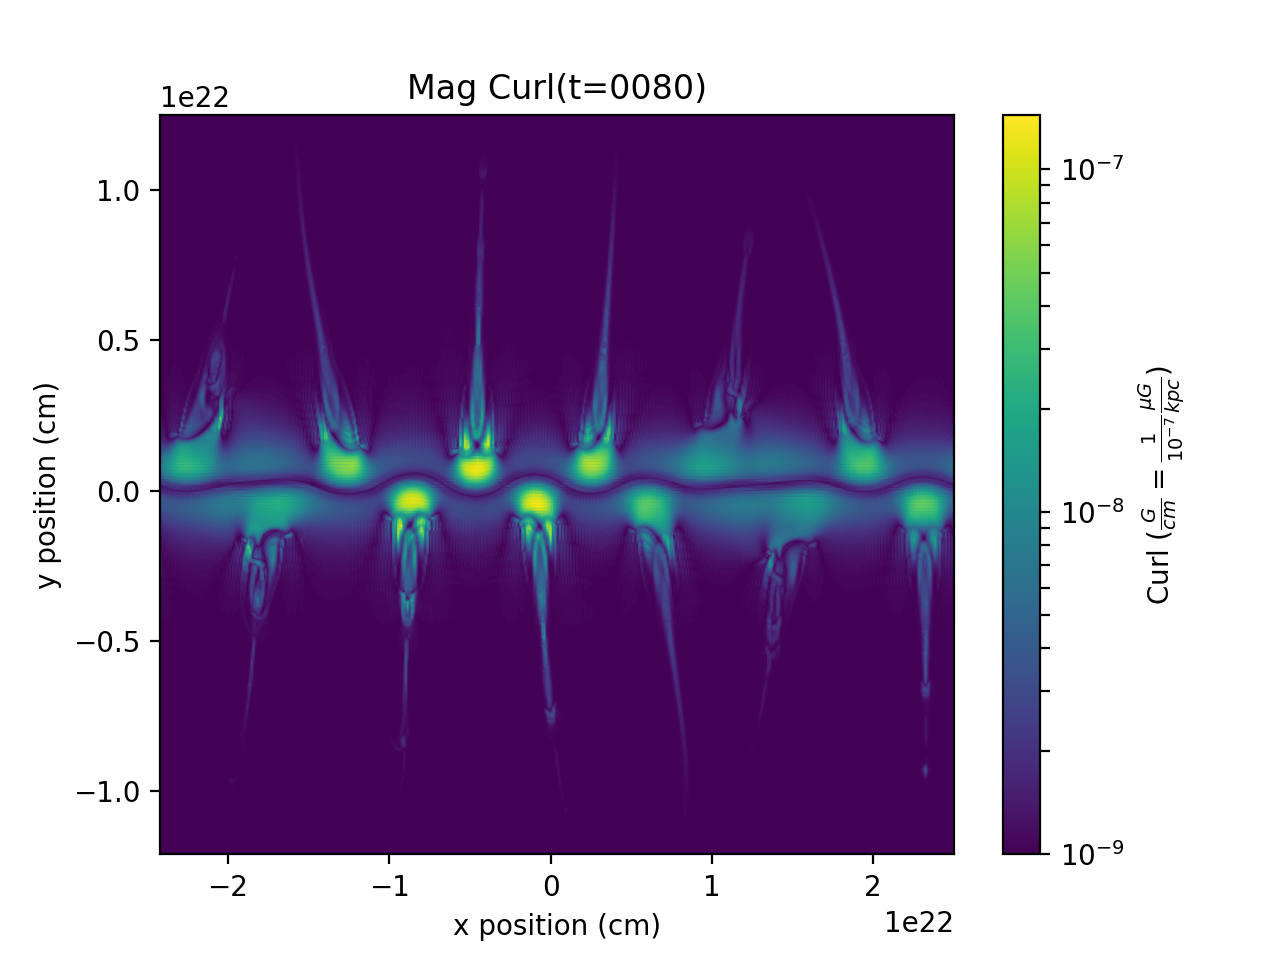
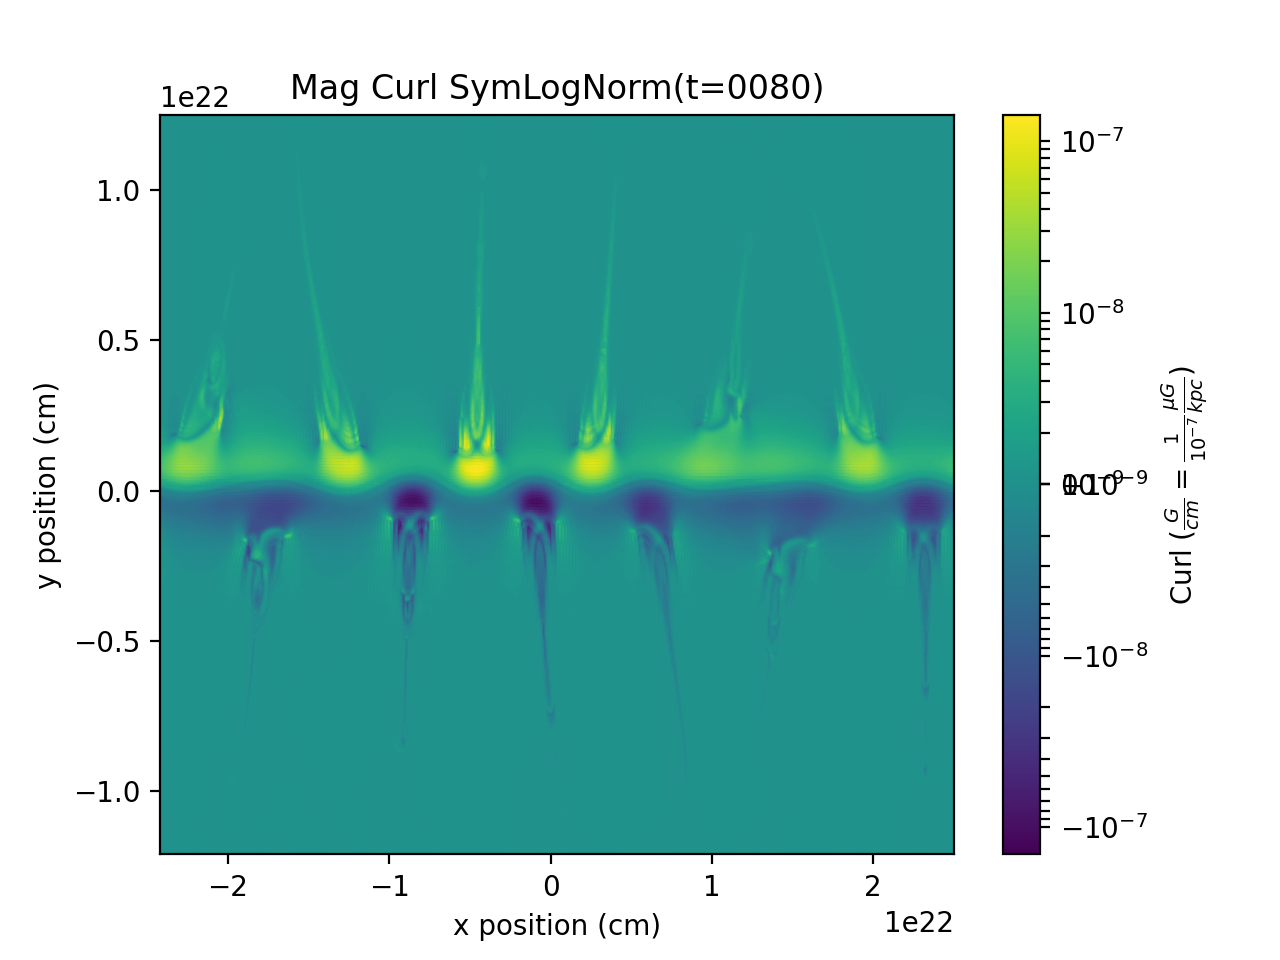
FIXED LOG; @see line 198 of Curl_Div

diff --git a/Curl_Div_Gifs.py b/Curl_Div_Gifs.py
@@ -45,6 +45,32 @@ import moviepy
 from moviepy.editor import ImageSequenceClip
 # import glob #order files
 
+#%%
+#SETUP DATA
+
+#DISCRETE CURL FORMULA:
+#Partial x(Fy) - Partial y(Fx)
+
+timestamp = "0000"
+filename = "/Users/bwong/Downloads/URS_Data/m2_c1_16x8_64x64/More Plot Files/parkerCRs_hdf5_plt_cnt_" + timestamp
+rawhdf = h5py.File(filename, 'r')
+newOut = hdf5_parser.setup(filename, format = "cartesian")
+
+x = newOut['posXarray']
+y = newOut['posYarray']
+magY = newOut['magYarray']
+magX = newOut['magXarray']
+magInit = np.sqrt(pow(magX, 2), pow(magY, 2))[1:, 1:]
+
+#div
+PxFx = np.diff(magY, n=1, axis = 0) #shape (511, 512)
+PyFy = np.diff(magX, n=1, axis = 1) #shape (512, 511)
+divInit = PxFx[:,1:] + PyFy[1:] #reselect to rehape
+
+#curl
+PxFy = np.diff(magY, n=1, axis = 1) #shape (512, 511)
+PyFx = np.diff(magX, n=1, axis = 0) #shape (511, 512)
+curlInit = PxFy[1:] - PyFx[:,1:]
 
 #%%
 startTime = time.time()
@@ -91,24 +117,34 @@ for fileName in os.listdir(filedirectory):
         # plt.title("Mag Curl (t="+str(timeStamp)+")")
         # plt.savefig(saveDirectory + "/Curl/t="+str(timeStamp)+".png")
         
-        plt.clf()
-        n=colors.SymLogNorm(linthresh=10e-10, linscale=10e-10, vmin = np.min(div), vmax = np.max(div))
-        pcm = plt.pcolormesh(x[:1, 1:].flatten(), y[1:, :1].flatten(), div, norm = n)
-        plt.contourf(x[:1, 1:].flatten(), y[1:, :1].flatten(), div, levels = 100)
-        plt.colorbar(pcm, label =  r"Div ($\frac{G}{cm} = \frac{1}{10^{-7}} \frac{\mu G}{kpc}$)")
-        plt.title("Mag Div"+"(t="+str(timeStamp)+")")
-        plt.xlabel("x position (cm)")
-        plt.ylabel("y position (cm)")
-        plt.savefig(saveDirectory + "/div/t="+str(timeStamp)+".png")
+        #OLD
+        # plt.clf()
+        # n=colors.SymLogNorm(linthresh=10e-10, linscale=10e-10, vmin = np.min(div), vmax = np.max(div))
+        # pcm = plt.pcolormesh(x[:1, 1:].flatten(), y[1:, :1].flatten(), div, norm = n)
+        # plt.contourf(x[:1, 1:].flatten(), y[1:, :1].flatten(), div, levels = 100)
+        # plt.colorbar(pcm, label =  r"Div ($\frac{G}{cm} = \frac{1}{10^{-7}} \frac{\mu G}{kpc}$)")
+        # plt.title("Mag Div"+"(t="+str(timeStamp)+")")
+        # plt.xlabel("x position (cm)")
+        # plt.ylabel("y position (cm)")
+        # plt.savefig(saveDirectory + "/div/t="+str(timeStamp)+".png")
+        
+        # plt.clf()
+        # n=colors.SymLogNorm(linthresh=10e-10, linscale=10e-10, vmin = np.min(curl), vmax = np.max(curl))
+        # pcm = plt.pcolormesh(x[:1, 1:].flatten(), y[1:, :1].flatten(), curl, norm = n)
+        # plt.contourf(x[:1, 1:].flatten(), y[1:, :1].flatten(), curl, levels = 100)
+        # plt.colorbar(pcm, label =  r"Curl ($\frac{G}{cm} = \frac{1}{10^{-7}} \frac{\mu G}{kpc}$)")
+        # plt.title("Mag Curl"+"(t="+str(timeStamp)+")")
+        # plt.xlabel("x position (cm)")
+        # plt.ylabel("y position (cm)")
+        # plt.savefig(saveDirectory + "/curl/t="+str(timeStamp)+".png")
         
         plt.clf()
-        n=colors.SymLogNorm(linthresh=10e-10, linscale=10e-10, vmin = np.min(curl), vmax = np.max(curl))
-        pcm = plt.pcolormesh(x[:1, 1:].flatten(), y[1:, :1].flatten(), curl, norm = n)
-        plt.contourf(x[:1, 1:].flatten(), y[1:, :1].flatten(), curl, levels = 100)
-        plt.colorbar(pcm, label =  r"Curl ($\frac{G}{cm} = \frac{1}{10^{-7}} \frac{\mu G}{kpc}$)")
-        plt.title("Mag Curl"+"(t="+str(timeStamp)+")")
-        plt.xlabel("x position (cm)")
-        plt.ylabel("y position (cm)")
+        z = abs((curl-curlInit)/magInit)
+        #lowerbound = max(z.min(), pow(10, -9)) #set minimum lower bound
+        lev = np.logspace(np.log10(z.min()), np.log10(z.max()), num=100)
+        plt.contourf(x[:1, 1:].flatten(), y[1:, :1].flatten(), np.log10(z),levels=100)#, levels = lev)
+        # plt.contourf(x[:1, 1:].flatten(), y[1:, :1].flatten(), div, locator=ticker.LogLocator())
+        plt.colorbar()
         plt.savefig(saveDirectory + "/curl/t="+str(timeStamp)+".png")
 beepy.beep(4)
 print()
@@ -122,7 +158,7 @@ plt.close()
 ##########
 #https://www.tutorialexample.com/python-create-gif-with-images-using-moviepy-a-complete-guide-python-tutorial/
 
-field = "Div"
+field = "curl"
 images = []
 for fileName in os.listdir(saveDirectory + '/' + field): #set in initial parameters
     if (fileName.endswith(".png")):#avoid file format errors, even hidden 
